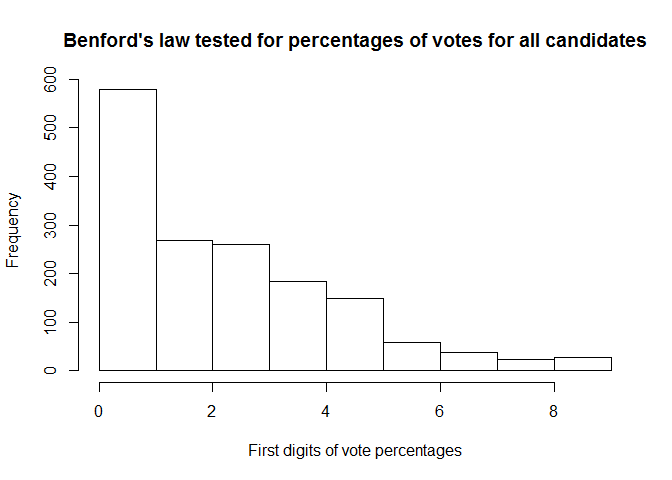
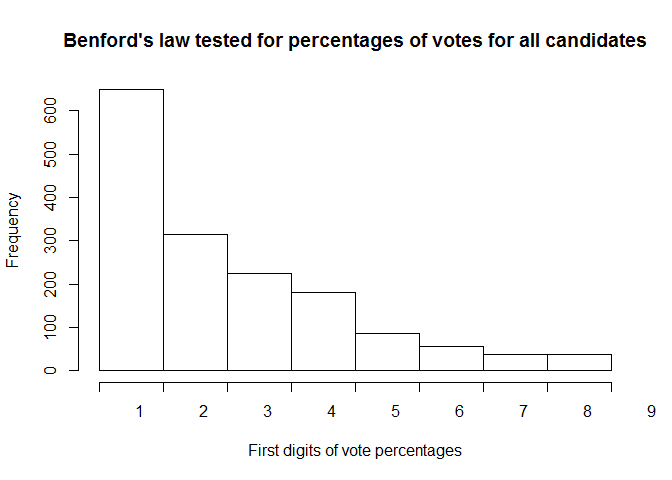
Improved first digit function for values <1, renamed functions to reflect vectorization, improved xlabels for Benford histograms

diff --git a/most-voted.html b/most-voted.html
@@ -70,24 +70,25 @@ img {
 library(readr)
 library(dplyr)
 
-#setwd(file.path(normalizePath(&quot;~&quot;),&quot;elections&quot;))
-
-
-## Get data
+#setwd(file.path(normalizePath(&quot;~&quot;),&quot;elections&quot;))</code></pre>
+<pre class="r"><code>## Get data
 remote &lt;- 
         &quot;http://www.elections.ca/scripts/OVR2011/34/data_donnees/table_tableau12.csv&quot;
 #local&lt;-basename(remote)
 #if(!file.exists(local)) download.file(remote, local, mode=&quot;wb&quot;)
 #e &lt;- read_csv(local)
 # Use remote directly to skip mode setting problem
-e &lt;- read_csv(remote)</code></pre>
-<pre class="r"><code>## Clean data
+e &lt;- read_csv(remote)
+
+
+
+## Clean data
 
 # Vectorized function to drop everything after first slash - normally French
 # location names - and replace spaces with dots
 
-Englishize &lt;- function(s, replace.spaces = FALSE) {
-        sapply(s, 
+vEnglishize &lt;- function(strings.vector, replace.spaces = FALSE) {
+        sapply(strings.vector, 
                function(s) {
                         x &lt;- strsplit(s, &quot;/&quot;, fixed=TRUE) %&gt;% unlist
                         x &lt;- trimws(x[1])
@@ -97,10 +98,10 @@ Englishize &lt;- function(s, replace.spaces = FALSE) {
         )
 }
 
-colnames(e) %&gt;% Englishize(replace.spaces=TRUE) -&gt; colnames(e)
-e$Province %&gt;% Englishize -&gt; e$Province
-e$Candidate %&gt;% Englishize -&gt; e$Candidate
-e$Candidate.Residence %&gt;% Englishize -&gt; e$Candidate.Residence
+colnames(e) %&gt;% vEnglishize(replace.spaces=TRUE) -&gt; colnames(e)
+e$Province %&gt;% vEnglishize -&gt; e$Province
+e$Candidate %&gt;% vEnglishize -&gt; e$Candidate
+e$Candidate.Residence %&gt;% vEnglishize -&gt; e$Candidate.Residence
 
 numerize &lt;- function(x) {
         x %&gt;% trimws %&gt;% as.numeric
@@ -147,12 +148,12 @@ e[e$Province==&quot;British Columbia&quot;, ] %&gt;%
 ## $ Majority.Percentage          (dbl) 44.8, 44.1, 43.9, 36.5, 39.7, 35....</code></pre>
 <pre class="r"><code>stdev &lt;- sd(e$Percentage.of.Votes.Obtained)
 aver  &lt;- mean(e$Percentage.of.Votes.Obtained)
-cat(paste(&quot;68% of candidates get&quot;,
+cat(paste(&quot;If the distribution would be normal, 68% of winning candidates would get&quot;,
           round(aver - stdev),
           &quot;to&quot;,
           round(aver + stdev),
           &quot;percents of votes&quot;))</code></pre>
-<pre><code>## 68% of candidates get 0 to 38 percents of votes</code></pre>
+<pre><code>## If the distribution would be normal, 68% of winning candidates would get 0 to 38 percents of votes</code></pre>
 <pre class="r"><code>hist(e$Percentage.of.Votes.Obtained,
      main = &quot;Is it hard to get 50% of votes?&quot;,
      xlab = &quot;Percentage of votes&quot;,
@@ -171,25 +172,37 @@ hist(winners,
[1 lines of base64/hex data omitted]
 <pre class="r"><code>stdev &lt;- sd(winners)
 aver &lt;- mean(winners)
-cat(paste(&quot;68% of winning candidates get&quot;,
+cat(paste(&quot;If the distribution would be normal, 68% of winning candidates would get&quot;,
           round(aver - stdev),
           &quot;to&quot;,
           round(aver + stdev),
           &quot;percents of votes&quot;))</code></pre>
-<pre><code>## 68% of winning candidates get 40 to 61 percents of votes</code></pre>
+<pre><code>## If the distribution would be normal, 68% of winning candidates would get 40 to 61 percents of votes</code></pre>
 <p>Let’s check Benford’s law</p>
-<pre class="r"><code>FirstDigit &lt;- function(x) {
-        x %&gt;% as.character %&gt;% substr(1,1) %&gt;% as.integer
+<pre class="r"><code>vFirstDigit &lt;- function(numbers.vector) {
+        sapply(numbers.vector, function(x) {
+                if (x != 0) {
+                        while (x &lt; 1) x &lt;- x*10
+                        x %&gt;% as.character %&gt;% substr(1,1) %&gt;% as.integer -&gt; x
+                        }
+                return(x)
+                })
 }
 
-hist(FirstDigit(e$Percentage.of.Votes.Obtained),
+hist(vFirstDigit(e$Percentage.of.Votes.Obtained),
      main=&quot;Benford's law tested for percentages of votes for all candidates&quot;,
-     xlab=&quot;First digits of vote percentages&quot;)</code></pre>
[1 lines of base64/hex data omitted]
-<pre class="r"><code>hist(FirstDigit(winners),
+     xlab=&quot;First digits of vote percentages&quot;,
+     breaks=1:9,
+     xaxt=&quot;n&quot;)
+axis(1,at=1:9,hadj=-4)</code></pre>
[1 lines of base64/hex data omitted]
+<pre class="r"><code>hist(vFirstDigit(winners),
      main=&quot;Benford's law tested for percentages of votes for winning candidates&quot;,
-     xlab=&quot;First digits of vote percentages&quot;)</code></pre>
[1 lines of base64/hex data omitted]
+     xlab=&quot;First digits of vote percentages&quot;,
+     breaks=1:9,
+     xaxt=&quot;n&quot;)
+axis(1,at=1:9,hadj=-4)</code></pre>
[1 lines of base64/hex data omitted]
 
 
 </div>

diff --git a/most-voted.md b/most-voted.md
@@ -10,8 +10,10 @@ library(readr)
 library(dplyr)
 
 #setwd(file.path(normalizePath("~"),"elections"))
+```
 
 
+```r
 ## Get data
 remote <- 
         "http://www.elections.ca/scripts/OVR2011/34/data_donnees/table_tableau12.csv"
@@ -20,17 +22,16 @@ remote <-
 #e <- read_csv(local)
 # Use remote directly to skip mode setting problem
 e <- read_csv(remote)
-```
 
 
-```r
+
 ## Clean data
 
 # Vectorized function to drop everything after first slash - normally French
 # location names - and replace spaces with dots
 
-Englishize <- function(s, replace.spaces = FALSE) {
-        sapply(s, 
+vEnglishize <- function(strings.vector, replace.spaces = FALSE) {
+        sapply(strings.vector, 
                function(s) {
                         x <- strsplit(s, "/", fixed=TRUE) %>% unlist
                         x <- trimws(x[1])
@@ -40,10 +41,10 @@ Englishize <- function(s, replace.spaces = FALSE) {
         )
 }
 
-colnames(e) %>% Englishize(replace.spaces=TRUE) -> colnames(e)
-e$Province %>% Englishize -> e$Province
-e$Candidate %>% Englishize -> e$Candidate
-e$Candidate.Residence %>% Englishize -> e$Candidate.Residence
+colnames(e) %>% vEnglishize(replace.spaces=TRUE) -> colnames(e)
+e$Province %>% vEnglishize -> e$Province
+e$Candidate %>% vEnglishize -> e$Candidate
+e$Candidate.Residence %>% vEnglishize -> e$Candidate.Residence
 
 numerize <- function(x) {
         x %>% trimws %>% as.numeric
@@ -102,7 +103,7 @@ e[e$Province=="British Columbia", ] %>%
 ```r
 stdev <- sd(e$Percentage.of.Votes.Obtained)
 aver  <- mean(e$Percentage.of.Votes.Obtained)
-cat(paste("68% of candidates get",
+cat(paste("If the distribution would be normal, 68% of winning candidates would get",
           round(aver - stdev),
           "to",
           round(aver + stdev),
@@ -110,7 +111,7 @@ cat(paste("68% of candidates get",
 ```
 
 ```
-## 68% of candidates get 0 to 38 percents of votes
+## If the distribution would be normal, 68% of winning candidates would get 0 to 38 percents of votes
 ```
 
 ```r
@@ -140,7 +141,7 @@ hist(winners,
 ```r
 stdev <- sd(winners)
 aver <- mean(winners)
-cat(paste("68% of winning candidates get",
+cat(paste("If the distribution would be normal, 68% of winning candidates would get",
           round(aver - stdev),
           "to",
           round(aver + stdev),
@@ -148,27 +149,39 @@ cat(paste("68% of winning candidates get",
 ```
 
 ```
-## 68% of winning candidates get 40 to 61 percents of votes
+## If the distribution would be normal, 68% of winning candidates would get 40 to 61 percents of votes
 ```
 
 Let's check Benford's law
 
 ```r
-FirstDigit <- function(x) {
-        x %>% as.character %>% substr(1,1) %>% as.integer
+vFirstDigit <- function(numbers.vector) {
+        sapply(numbers.vector, function(x) {
+                if (x != 0) {
+                        while (x < 1) x <- x*10
+                        x %>% as.character %>% substr(1,1) %>% as.integer -> x
+                        }
+                return(x)
+                })
 }
 
-hist(FirstDigit(e$Percentage.of.Votes.Obtained),
+hist(vFirstDigit(e$Percentage.of.Votes.Obtained),
      main="Benford's law tested for percentages of votes for all candidates",
-     xlab="First digits of vote percentages")
+     xlab="First digits of vote percentages",
+     breaks=1:9,
+     xaxt="n")
+axis(1,at=1:9,hadj=-4)
 ```
 
 ![](most-voted_files/figure-html/unnamed-chunk-3-1.png) 
 
 ```r
-hist(FirstDigit(winners),
+hist(vFirstDigit(winners),
      main="Benford's law tested for percentages of votes for winning candidates",
-     xlab="First digits of vote percentages")
+     xlab="First digits of vote percentages",
+     breaks=1:9,
+     xaxt="n")
+axis(1,at=1:9,hadj=-4)
 ```
 
 ![](most-voted_files/figure-html/unnamed-chunk-3-2.png) 
